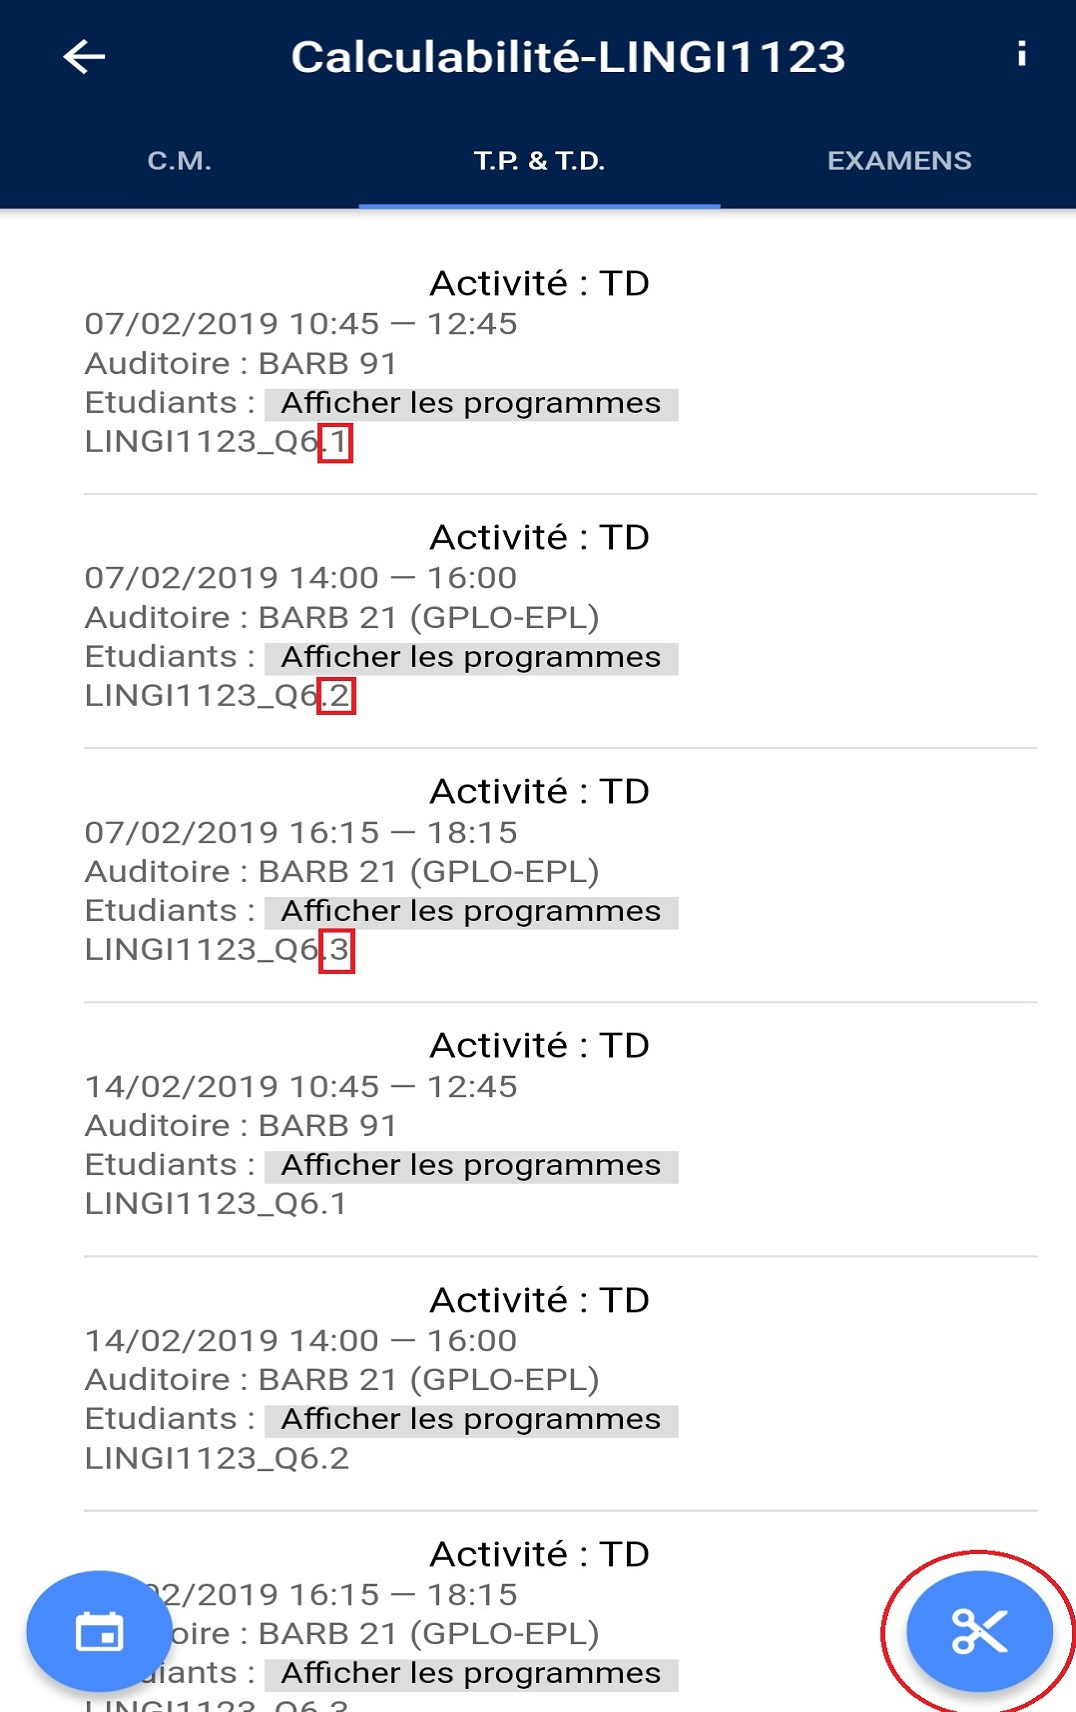
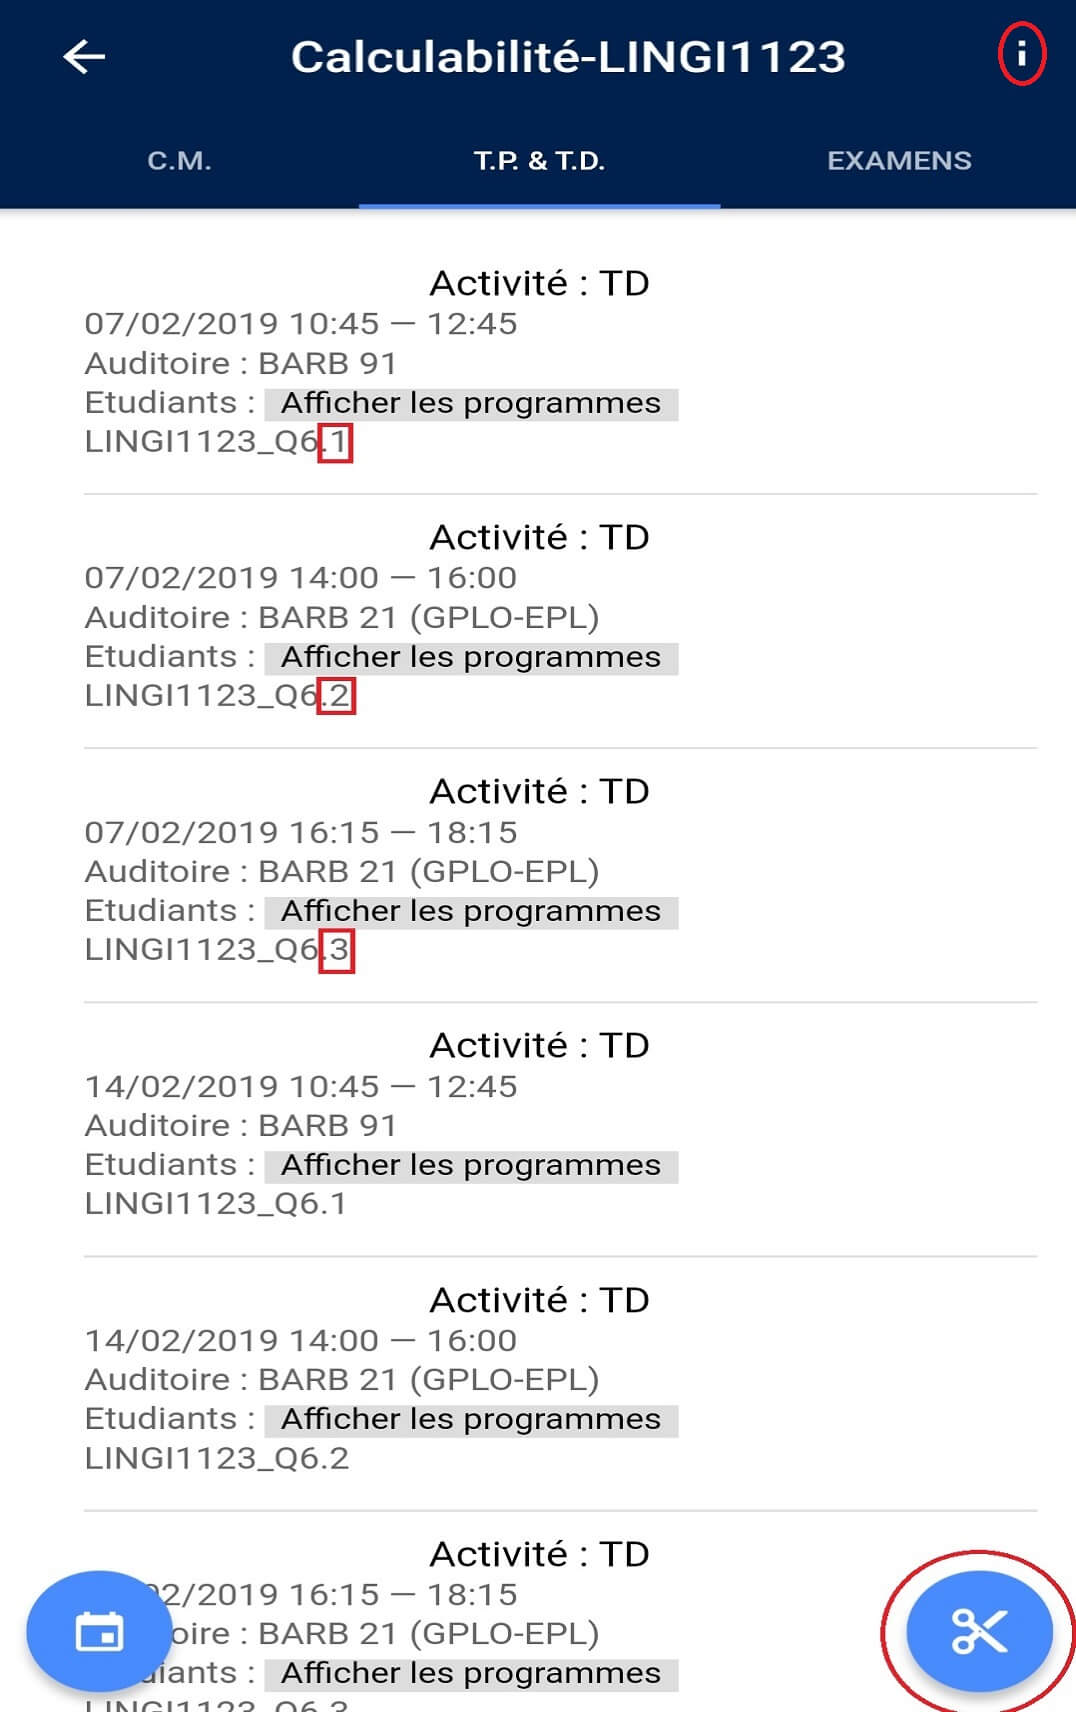
support

diff --git a/src/pages/tuto/tuto.html b/src/pages/tuto/tuto.html
@@ -38,14 +38,6 @@
   </ion-slide>
 
   <ion-slide >
-    <ion-row justify-content-center align-items-center padding> <p>Repertory</p> </ion-row>
-    <ion-row justify-content-center align-items-center padding>
-      <img id="menu" src="./assets/img/tuto/rep.png" />
-    </ion-row>
-    <ion-row  justify-content-center align-items-center><p> You can find the repertory on the support page.</p></ion-row>
-  </ion-slide>
-
-  <ion-slide >
   <ion-row justify-content-center align-items-center padding> <p>Studies</p> </ion-row>
   <ion-row justify-content-center align-items-center padding>
     <img id="menu" src="./assets/img/tuto/add.jpg" />
@@ -53,13 +45,38 @@
   <ion-row  justify-content-center align-items-center><p> For the tab "schedules", if you want to add a course manually you can click on the plus button.</p></ion-row>
 </ion-slide>
 
+<ion-slide >
+<ion-row justify-content-center align-items-center padding> <p>Studies (tab "schedules")</p> </ion-row>
+<ion-row justify-content-center align-items-center padding>
+<img id="menu" src="./assets/img/tuto/course.jpg" />
+</ion-row>
+<ion-row  justify-content-center align-items-center><p> For a selected course, you can add an individual class session to your calendar by dragging it to the left. Or add all sessions using the "calendar" button at the bottom left</p></ion-row>
+</ion-slide>
+
   <ion-slide >
 <ion-row justify-content-center align-items-center padding> <p>Studies (tab "schedules")</p> </ion-row>
 <ion-row justify-content-center align-items-center padding>
   <img id="menu" src="./assets/img/tuto/cut.jpg" />
 </ion-row>
-<ion-row  justify-content-center align-items-center><p> For a selected course, if different sessions are available you can select yours using the scissors button.</p></ion-row>
+<ion-row  justify-content-center align-items-center><p> For a selected course, if different sessions are available you can select yours using the scissors button. You can also get more information about the course using the button at the top right.</p></ion-row>
 </ion-slide>
+
+<ion-slide >
+  <ion-row justify-content-center align-items-center padding> <p>Repertory</p> </ion-row>
+  <ion-row justify-content-center align-items-center padding>
+    <img id="menu" src="./assets/img/tuto/rep.png" />
+  </ion-row>
+  <ion-row  justify-content-center align-items-center><p> You can find the repertory on the support page.</p></ion-row>
+</ion-slide>
+
+<ion-slide >
+  <ion-row justify-content-center align-items-center padding> <p>News (tab "faculty")</p> </ion-row>
+  <ion-row justify-content-center align-items-center padding>
+    <img id="menu" src="./assets/img/tuto/news.jpg" />
+  </ion-row>
+  <ion-row  justify-content-center align-items-center><p>At your first connection, select the desired faculty and save your choice with the button "Save" at the bottom of the list. You can change faculty using the button at the bottom right which will appear on the faculty news page.</p></ion-row>
+</ion-slide>
+
   <!--<ion-slide>
 
   </ion-slide>
@@ -76,6 +93,7 @@
     </ion-row>
     <ion-row>
       <ion-col>
+        <ion-row  justify-content-center align-items-center><p>You can find these tutorials in the "Settings" section</p></ion-row>
         <button ion-button color="light" (click)="goToHome()">Go to HomeScreen</button>
       </ion-col>
     </ion-row>
